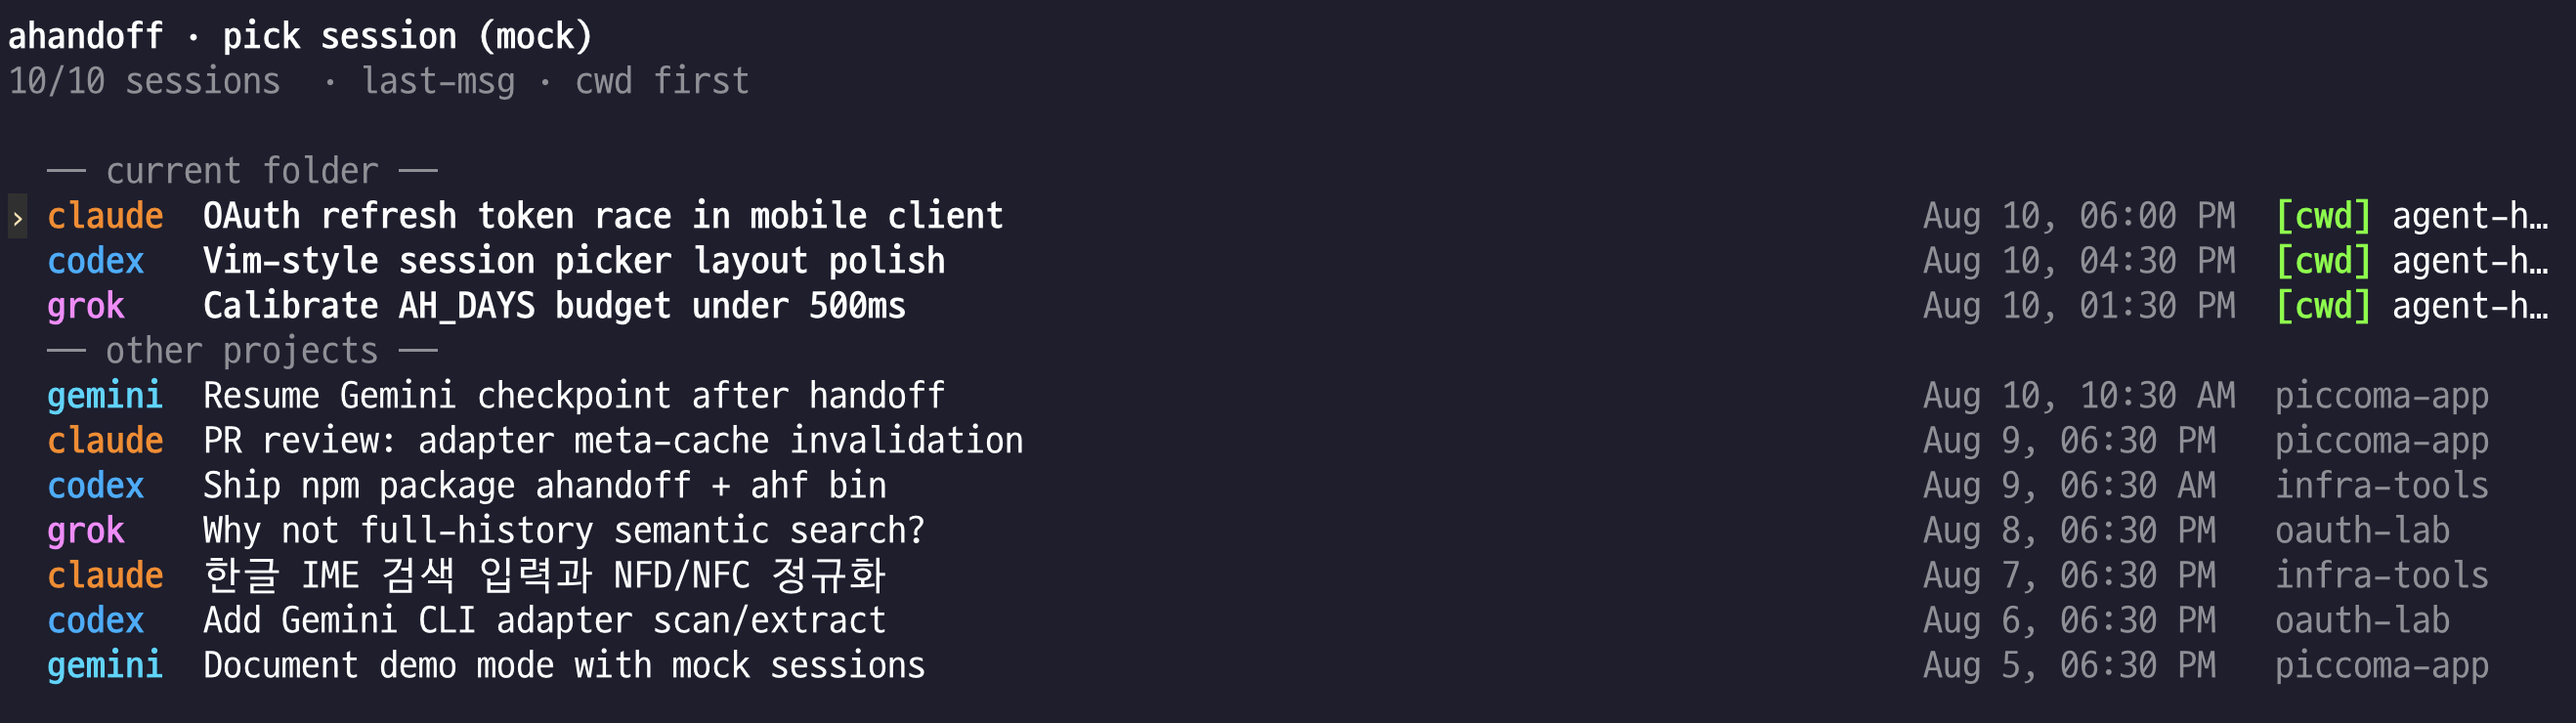
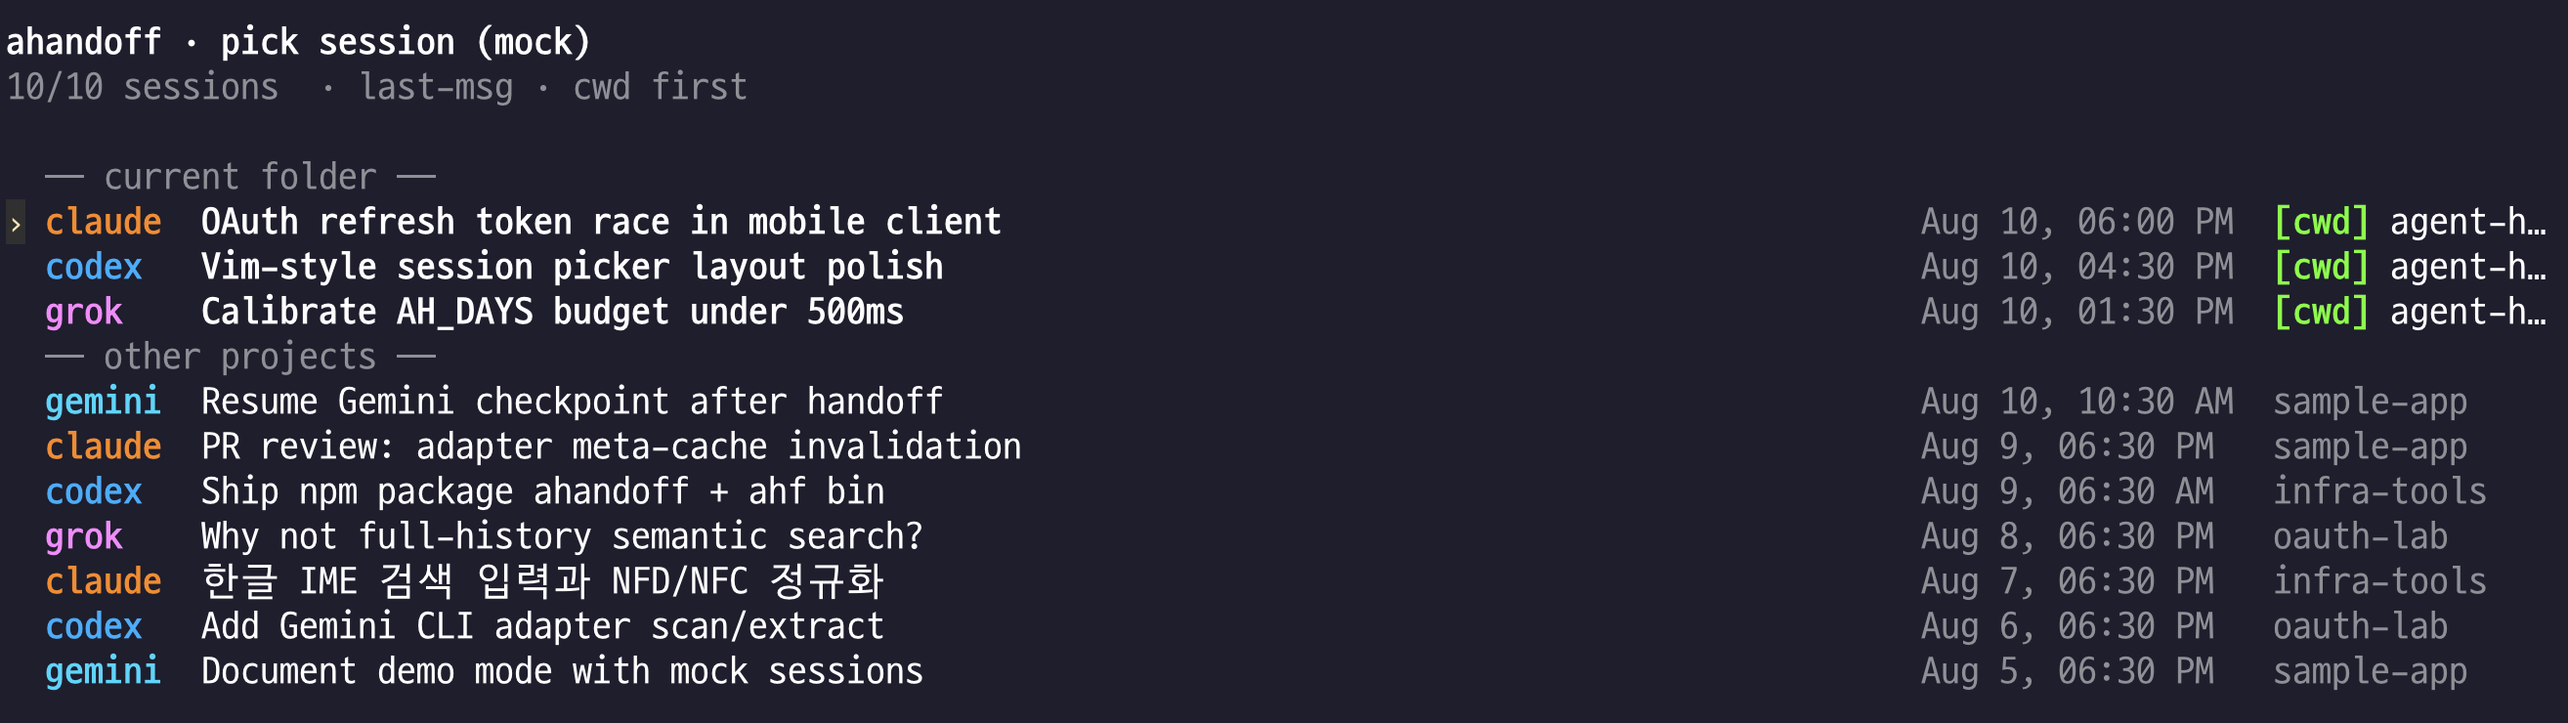
docs: npm/npx 설치·사용법과 npm 패키지 링크 추가
README 영·한 문서에 npm 뱃지, 글로벌 설치, npx 실행 예제를 보강한다.

diff --git a/src/mock-data.ts b/src/mock-data.ts
@@ -32,7 +32,7 @@ function daysAgo(d: number): number {
  * `opts.cwd` 를 현재 폴더 경로로 써서 [cwd] 배지가 실제로 보이게 한다.
  */
 export function buildMockSessions(cwd: string): SessionMeta[] {
-  const otherA = "/Users/demo/Workspace/piccoma-app";
+  const otherA = "/Users/demo/Workspace/sample-app";
   const otherB = "/Users/demo/Workspace/infra-tools";
   const otherC = "/Users/demo/Projects/side/oauth-lab";
 

diff --git a/README.ko.md b/README.ko.md
@@ -2,11 +2,14 @@
 
 **Language:** [English](README.md) · [한국어](README.ko.md)
 
+[![npm](https://img.shields.io/npm/v/ahandoff.svg)](https://www.npmjs.com/package/ahandoff)
+[![npm](https://img.shields.io/npm/dt/ahandoff.svg)](https://www.npmjs.com/package/ahandoff)
+
 ![ahandoff 세션 피커](assets/capture.png)
 
 로컬 코딩 에이전트 간 **최근 세션 빠른 핸드오프**.
 
-- **패키지:** `ahandoff`
+- **npm:** [ahandoff](https://www.npmjs.com/package/ahandoff)
 - **명령:** `ahf` (별칭: `ahandoff`)
 - **에이전트:** Claude Code, Codex, Grok Build, Gemini CLI
 - **기본 기간:** 최근 **7일** (`--days` / `AH_DAYS`로 조절)
@@ -48,15 +51,41 @@
 
 ## 설치
 
+**npm 패키지:** [https://www.npmjs.com/package/ahandoff](https://www.npmjs.com/package/ahandoff)
+
+### 글로벌 설치 (권장)
+
 ```bash
-# 이 저장소에서
+npm install -g ahandoff
+
+# 설치 후 두 이름 모두 사용 가능
+ahf --help
+ahandoff --help
+```
+
+**Node.js ≥ 18** 이 필요합니다.
+
+### `npx`로 한 번 실행 (설치 없이)
+
+```bash
+npx ahandoff
+npx ahandoff list
+npx ahandoff --mock
+npx ahandoff hop -f claude -t codex --latest
+```
+
+`npx`는 첫 실행 시 패키지를 받아 `ahandoff` CLI를 실행합니다. 글로벌 설치 없이 써 볼 때 적합합니다.
+
+### 이 저장소에서 (개발)
+
+```bash
+# 의존성 설치, 빌드, 글로벌 연결
+npm install
+npm run build
 npm install -g .
 
 # 개발 중 링크
 npm run build && npm link
-
-# 배포 후
-npm install -g ahandoff
 ```
 
 ## 목 데이터 데모
@@ -64,9 +93,15 @@ npm install -g ahandoff
 실제 에이전트 세션을 스캔하지 않고 피커를 실행합니다.
 
 ```bash
+# 글로벌 설치 후
 ahf --mock
 # 또는
 AH_MOCK=1 ahf
+
+# npx
+npx ahandoff --mock
+
+# 이 저장소에서
 just mock
 ```
 
@@ -75,18 +110,26 @@ just mock
 ```bash
 # 인터랙티브 세션 목록 (vim 스타일 피커)
 ahf
+# 동일:
+ahandoff
+npx ahandoff
+
 ahf list
+npx ahandoff list
 
 # 머신에 맞는 days 임계값 측정
 ahf bench --days 1,3,7,14
 
 # 최신 Claude 세션 → Codex 핸드오프
 ahf hop -f claude -t codex --latest
+npx ahandoff hop -f claude -t codex --latest
 
 # 인터랙티브로 고른 뒤 hop
 ahf hop -f claude -t grok
 ahf "oauth" -r codex
 ```
+
+글로벌 설치 후에는 `ahf`와 `ahandoff`가 동일합니다. `npx`를 쓸 때는 패키지 이름으로 `npx ahandoff …` 형태를 사용하세요.
 
 ### 피커 키 (vim 친화)
 

diff --git a/README.md b/README.md
@@ -2,11 +2,14 @@
 
 **Language:** [English](README.md) · [한국어](README.ko.md)
 
+[![npm](https://img.shields.io/npm/v/ahandoff.svg)](https://www.npmjs.com/package/ahandoff)
+[![npm](https://img.shields.io/npm/dt/ahandoff.svg)](https://www.npmjs.com/package/ahandoff)
+
 ![ahandoff session picker](assets/capture.png)
 
 Fast **recent-session handoff** across local coding agents.
 
-- **Package:** `ahandoff`
+- **npm:** [ahandoff](https://www.npmjs.com/package/ahandoff)
 - **Command:** `ahf` (alias: `ahandoff`)
 - **Agents:** Claude Code, Codex, Grok Build, Gemini CLI
 - **Default window:** last **7 days** (tune with `--days` / `AH_DAYS`)
@@ -48,15 +51,41 @@ Use **agent-hop** when you need deep historical search. Use **ahandoff** when th
 
 ## Install
 
+**Package on npm:** [https://www.npmjs.com/package/ahandoff](https://www.npmjs.com/package/ahandoff)
+
+### Global install (recommended)
+
 ```bash
-# from this repo
+npm install -g ahandoff
+
+# then use either binary name
+ahf --help
+ahandoff --help
+```
+
+Requires **Node.js ≥ 18**.
+
+### One-off with `npx` (no install)
+
+```bash
+npx ahandoff
+npx ahandoff list
+npx ahandoff --mock
+npx ahandoff hop -f claude -t codex --latest
+```
+
+`npx` downloads the package on first run and executes the `ahandoff` CLI. Good for trying the tool without a global install.
+
+### From this repo (development)
+
+```bash
+# install deps, build, and link globally
+npm install
+npm run build
 npm install -g .
 
-# or link while developing
+# or link while iterating
 npm run build && npm link
-
-# after publish
-npm install -g ahandoff
 ```
 
 ## Demo with mock data
@@ -64,9 +93,15 @@ npm install -g ahandoff
 Run the picker without scanning real agent sessions:
 
 ```bash
+# after global install
 ahf --mock
 # or
 AH_MOCK=1 ahf
+
+# with npx
+npx ahandoff --mock
+
+# from this repo
 just mock
 ```
 
@@ -75,18 +110,26 @@ just mock
 ```bash
 # interactive session list (vim-style picker)
 ahf
+# same as:
+ahandoff
+npx ahandoff
+
 ahf list
+npx ahandoff list
 
 # calibrate days threshold for your machine
 ahf bench --days 1,3,7,14
 
 # handoff latest Claude session → Codex
 ahf hop -f claude -t codex --latest
+npx ahandoff hop -f claude -t codex --latest
 
 # pick interactively then hop
 ahf hop -f claude -t grok
 ahf "oauth" -r codex
 ```
+
+After a global install, `ahf` and `ahandoff` are equivalent. With `npx`, use the package name: `npx ahandoff …`.
 
 ### Picker keys (vim-friendly)
 
